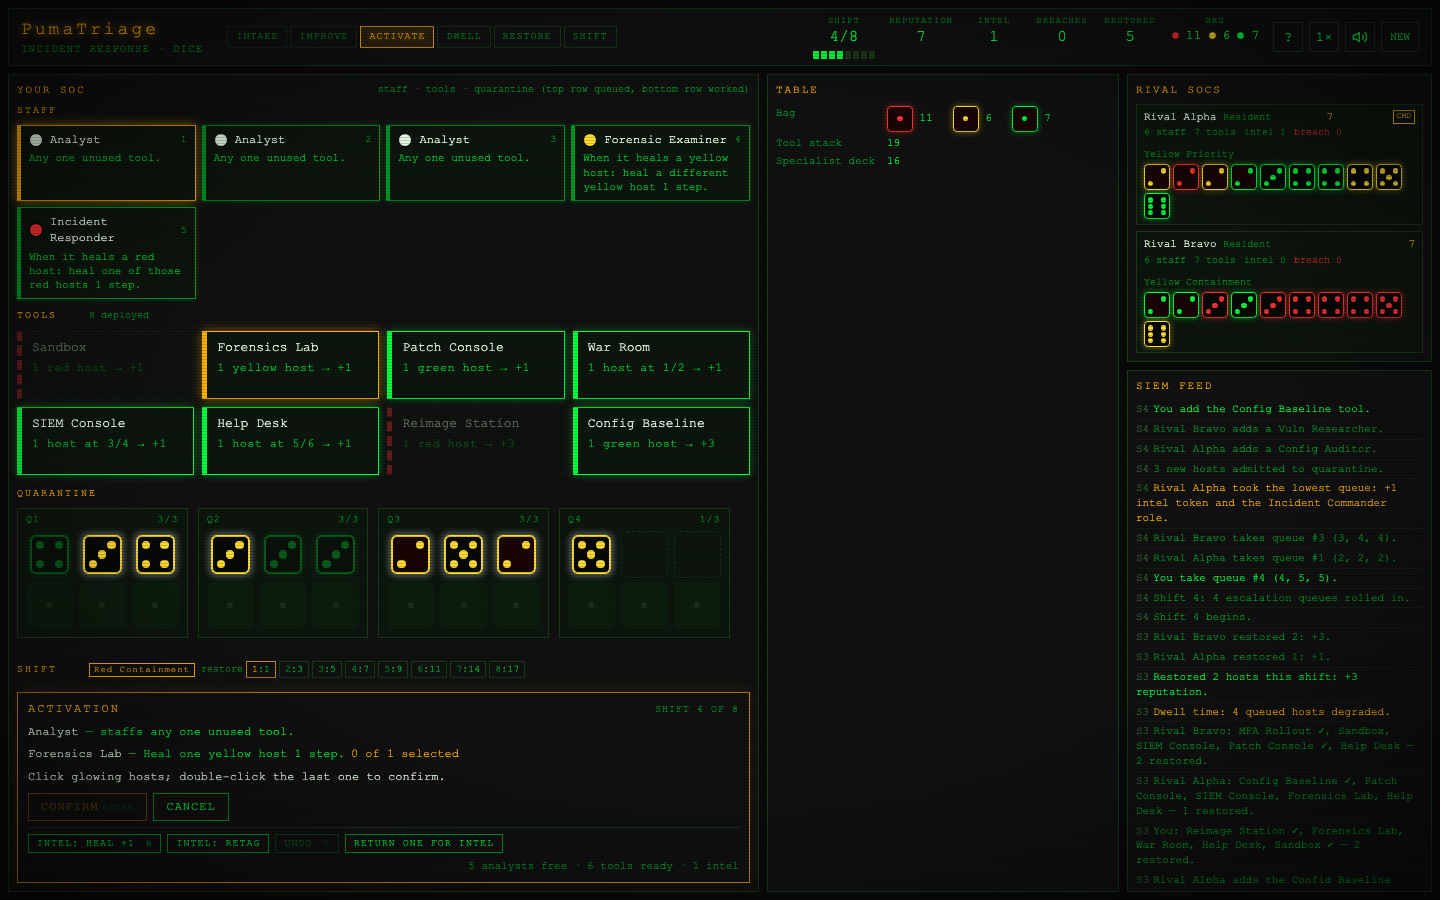
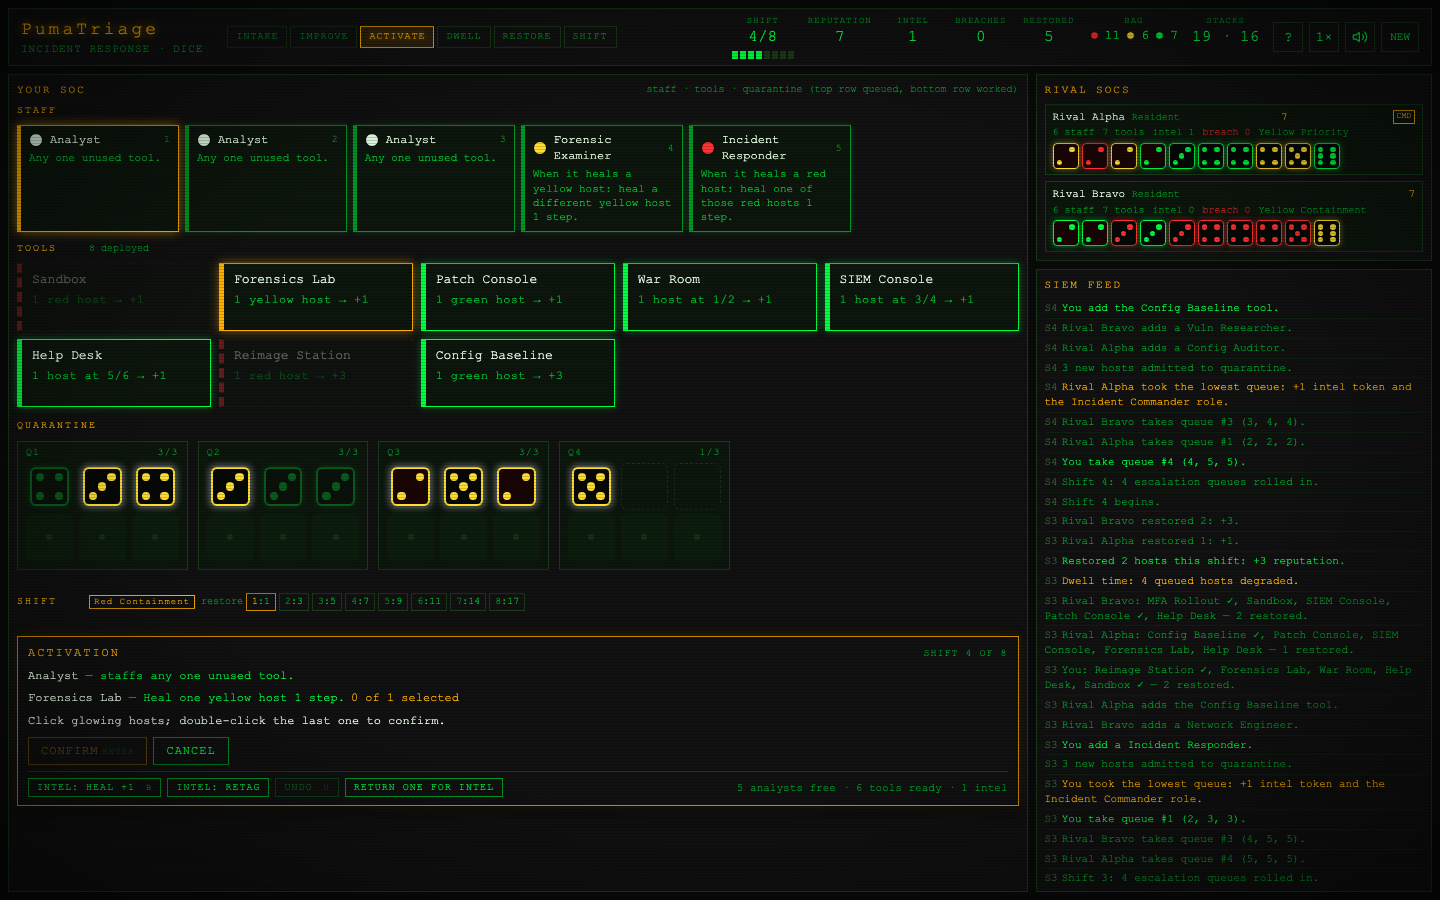
Drop the centre column; shared table becomes a band at the top of the board
The column only ever held phase-specific shared content (queues,
improvement display, directive and starting-host picks, Audit Report
filing, handover) and sat empty through activation, the longest phase.
That content now renders as a band above the staff cards only in the
phases that use it; bag and stack counts live in the HUD. The board
gets the width.

diff --git a/index.html b/index.html
@@ -60,13 +60,13 @@ body::after {
    ============================================================ */
 #app {
   height: 100vh; display: grid; gap: 8px; padding: 8px;
-  grid-template-columns: minmax(520px, 1.6fr) minmax(250px, 0.75fr) minmax(230px, 0.65fr);
+  grid-template-columns: minmax(640px, 1.8fr) minmax(280px, 0.7fr);
   grid-template-rows: auto minmax(0, 1fr);
-  grid-template-areas: "hud hud hud" "board center side";
+  grid-template-areas: "hud hud" "board side";
 }
 #hud-top { grid-area: hud; }
 #board   { grid-area: board; overflow: auto; }
-#center  { grid-area: center; overflow: auto; }
+#table   { border: 1px solid var(--amber-dim); background: rgba(255,176,0,0.03); padding: 8px 10px 10px; margin-bottom: 12px; }
 #side    { grid-area: side; display: flex; flex-direction: column; gap: 8px; min-height: 0; }
 
 .panel {
@@ -471,9 +471,9 @@ details.addons summary::-webkit-details-marker { display: none; }
   body { overflow: auto; }
   #app {
     height: auto; grid-template-columns: 1fr; grid-template-rows: auto;
-    grid-template-areas: "hud" "board" "center" "side";
+    grid-template-areas: "hud" "board" "side";
   }
-  #board, #center { overflow: visible; }
+  #board { overflow: visible; }
   #strip { bottom: 0; }
   .h3-note { display: none; }
   #phase-strip { margin-left: 0; width: 100%; flex-wrap: wrap; }
@@ -498,7 +498,6 @@ details.addons summary::-webkit-details-marker { display: none; }
   </header>
 
   <section id="board" class="panel" aria-label="Your SOC"></section>
-  <section id="center" class="panel" aria-label="Shared area"></section>
   <aside id="side">
     <div id="rivals-panel" class="panel"><h3>Rival SOCs</h3><div id="rivals"></div></div>
     <div id="siem" class="panel"><h3>SIEM Feed</h3><ul id="log-list" aria-label="Event log"></ul></div>
@@ -1359,7 +1358,7 @@ const STEP = {
         for (let i = 0; i < SOLO_DRAW + extra; i++) { const d = drawDieFromBag(); if (!d) break; d.value = rollValue(); p.pendingDice.push(d); }
         if (G.cfg.epidemic) { const d = drawDieFromBag(); if (d) { d.value = rollValue(); p.epidemicDie = d.uid; p.pendingDice.push(d); } }
         go("intake", "keep");
-        return animate([{ type: "render" }, { type: "sfx", name: "roll" }, { type: "fx", sel: "#center .die", cls: "rolling" }, { type: "wait", delay: 500 }]);
+        return animate([{ type: "render" }, { type: "sfx", name: "roll" }, { type: "fx", sel: "#table .die", cls: "rolling" }, { type: "wait", delay: 500 }]);
       }
       const per = 3 + extra;
       const dice = [];
@@ -2543,7 +2542,7 @@ function rebuildLog() {
 function updateAll() {
   if (UI.headless || !G) return;
   snapshotRects();
-  renderBoard(); renderCenter(); renderRivals(); updateHUD(); updatePhaseUI();
+  renderBoard(); renderRivals(); updateHUD(); updatePhaseUI();
   playFlip();
 }
 function pips() { return '<span class="pip"></span>'.repeat(9); }
@@ -2652,6 +2651,7 @@ function renderBoard() {
   const intake = G.phase === "intake" && G.step === "place";
   const consult = G.phase === "activate" && G.step === "consultant";
   let html = `<h3>Your SOC${!G.cfg.solo && G.firstPlayer === 0 ? ' <span class="badge">Incident Commander</span>' : ""}<span class="h3-note">staff · tools · quarantine (top row queued, bottom row worked)</span></h3>`;
+  html += renderCenter();
   html += '<div class="board-row"><span class="lbl">Staff</span></div><div id="staff">';
   let key = 0;
   for (const m of p.meeples) html += renderMeeple(p, m, m.off ? null : ++key);
@@ -2703,7 +2703,6 @@ function renderBoard() {
   el.innerHTML = html;
 }
 function renderCenter() {
-  const el = document.getElementById("center");
   const p = human(), s = UI.sel, ph = G.phase, st = G.step;
   let html = "";
   const ev = currentEvent();
@@ -2760,15 +2759,8 @@ function renderCenter() {
       html += '</div>';
     });
     html += '</div><div class="hint">Hand a host whose colour and value match an open slot: +1 each. Every host left at the end costs 1.</div>';
-  } else if (ph === "gameover") {
-    html += '<div class="center-title">Shift log closed</div><div class="hint">Open the summary from the actions bar, or start a new game.</div>';
-  } else {
-    html += '<div class="center-title">Table</div>';
-    html += `<div class="summary-grid"><span class="k">Bag</span><span>${renderPlainDie("red", 1)} ${G.bag.red} &nbsp; ${renderPlainDie("yellow", 1)} ${G.bag.yellow} &nbsp; ${renderPlainDie("green", 1)} ${G.bag.green}</span>`;
-    html += `<span class="k">Tool stack</span><span>${G.deptStack.length}</span><span class="k">Specialist deck</span><span>${G.specStack.length}</span></div>`;
-    if (ph === "activate" && st === "bots") html += '<div class="hint">Rival SOCs are working their queues.</div>';
   }
-  el.innerHTML = html;
+  return html ? `<div id="table" aria-label="Shared table">${html}</div>` : "";
 }
 function renderDisplay(pickable) {
   let html = '<div id="display">';
@@ -2881,9 +2873,10 @@ function updateHUD() {
     ["Breaches", p.fatalities, p.fatalities ? "bad" : ""],
     ["Restored", p.dischargedTotal],
     ["Bag", bag, "", "", `${G.bag.red}/${G.bag.yellow}/${G.bag.green}`],
+    ["Stacks", `${G.deptStack.length} · ${G.specStack.length}`],
   ];
   const el = document.getElementById("hud-stats");
-  el.innerHTML = stats.map(([l, v, c, extra, key]) => { const k = key || v; return `<div class="stat ${UI.prevHUD[l] !== undefined && UI.prevHUD[l] !== k ? "flash" : ""}" title="${l === "Intel" ? "Intel tokens (the blood bags): +1 each at the end" : l === "Breaches" ? "Breach records (fatality tokens): −2 each at the end" : l === "Bag" ? "Dice left in the bag by colour" : ""}"><span class="lbl">${l}</span><span class="val ${c || ""}">${v}</span>${extra || ""}</div>`; }).join("");
+  el.innerHTML = stats.map(([l, v, c, extra, key]) => { const k = key || v; return `<div class="stat ${UI.prevHUD[l] !== undefined && UI.prevHUD[l] !== k ? "flash" : ""}" title="${l === "Intel" ? "Intel tokens (the blood bags): +1 each at the end" : l === "Breaches" ? "Breach records (fatality tokens): −2 each at the end" : l === "Bag" ? "Dice left in the bag by colour" : l === "Stacks" ? "Tool tiles and specialist cards left in their stacks" : ""}"><span class="lbl">${l}</span><span class="val ${c || ""}">${v}</span>${extra || ""}</div>`; }).join("");
   for (const [l, v, , , key] of stats) UI.prevHUD[l] = key || v;
   const ps = document.getElementById("phase-strip");
   const idx = PHASE_STEPS.findIndex(([id]) => id === G.phase);
@@ -3199,7 +3192,6 @@ function init() {
   try { if (localStorage.getItem("pumatriage_muted_v1") === "1") { UI.muted = true; document.getElementById("mute-btn").setAttribute("aria-pressed", "true"); } } catch (e) {}
   try { const sp = parseInt(localStorage.getItem("pumatriage_speed_v1") || "1", 10); if (sp >= 1 && sp <= 3) { UI.speed = sp; const b = document.getElementById("speed-btn"); if (b) b.textContent = SPEED_LABEL[sp]; } } catch (e) {}
   document.getElementById("board").innerHTML = '<h3>Your SOC</h3><div class="hint">No active shift.</div>';
-  document.getElementById("center").innerHTML = '<div class="center-title">Table</div><div class="hint">Start a game from the menu.</div>';
   const shot = /[#&]shot=([a-z]+)/.exec(location.hash);
   if (shot) { screenshotState(shot[1]); return; }
   showMainMenu();
